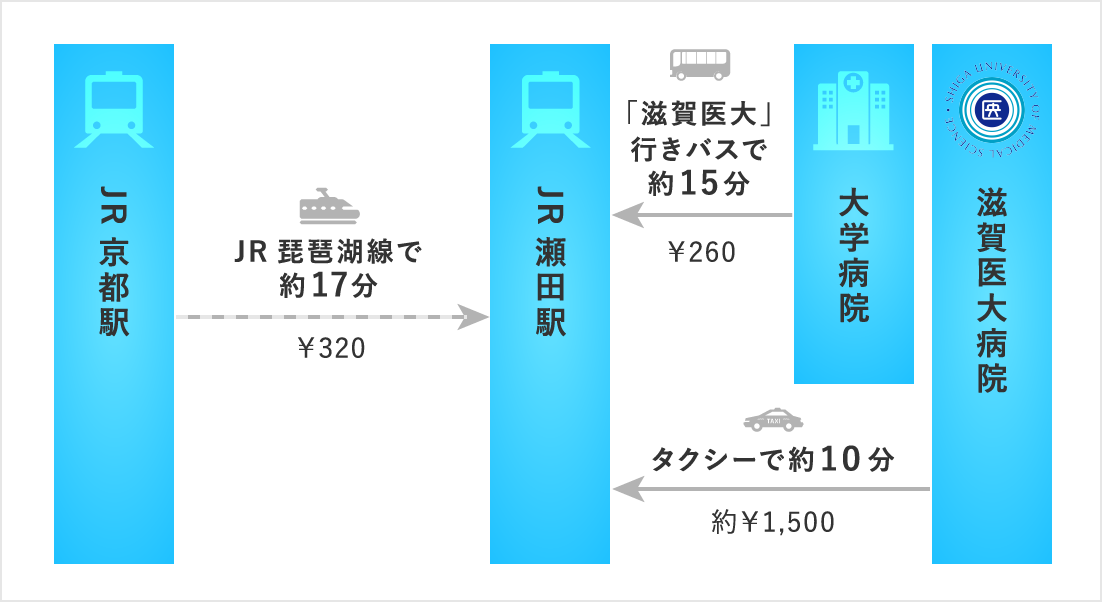
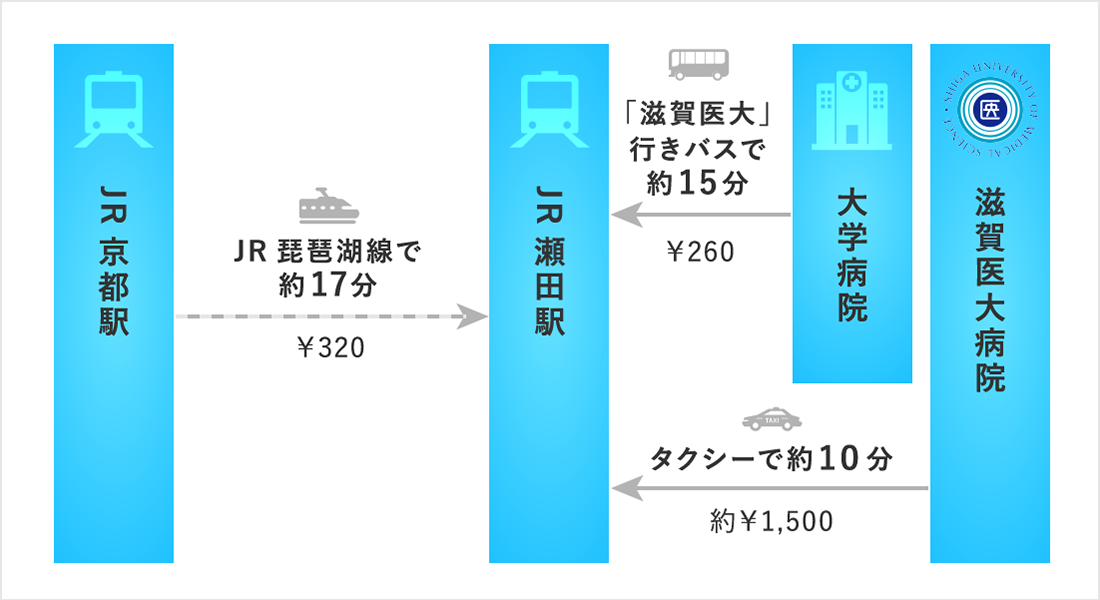
common リンク修正 about 画像サイズ修正

diff --git a/src/scss/_style-about.scss b/src/scss/_style-about.scss
@@ -112,7 +112,7 @@
 			
 			@include break( tab ){
 				right: 10px;
-				bottom: 0px;
+				bottom: 10px;
 				font-size: $xsmall;
 			}
 
@@ -148,7 +148,8 @@
 		position: relative;
 		
 		.section--culture__40th{
-			width: 482px;
+			width: 550px;
+			// width: 482px;
 			height: 0;
 			padding-top: percentage( 500/ 910);
 			position: absolute;
@@ -177,6 +178,14 @@
 			margin-bottom: 20px;
 		}
 
+		.aColumn{
+				@include break( tab ){
+					&__row{
+						margin-bottom: 10px;
+					}
+				}			
+		}
+
 		.-introduction{
 			.aTable{
 				tr{
@@ -188,6 +197,23 @@
 						padding-top: 0;
 					}
 				}			
+			}
+		}
+
+		.-byCar{
+			&__row:first-child{
+				@include break( tab ){
+					overflow: hidden;
+				}				
+			}
+
+			iframe{
+				height: 300px;
+				
+				@include break( tab ){
+					width: 100%;
+					height: 200px;
+				}					
 			}
 		}
 	}	
